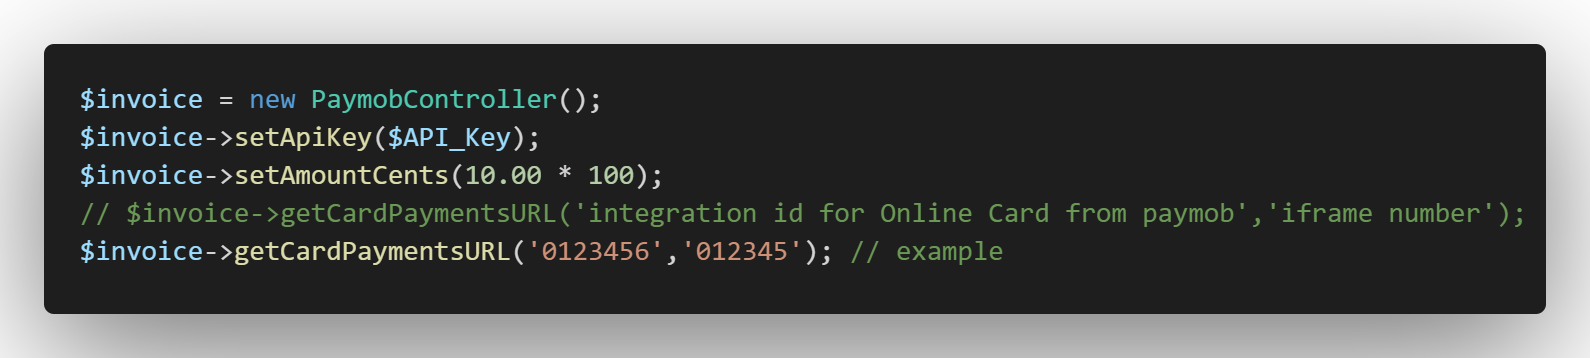
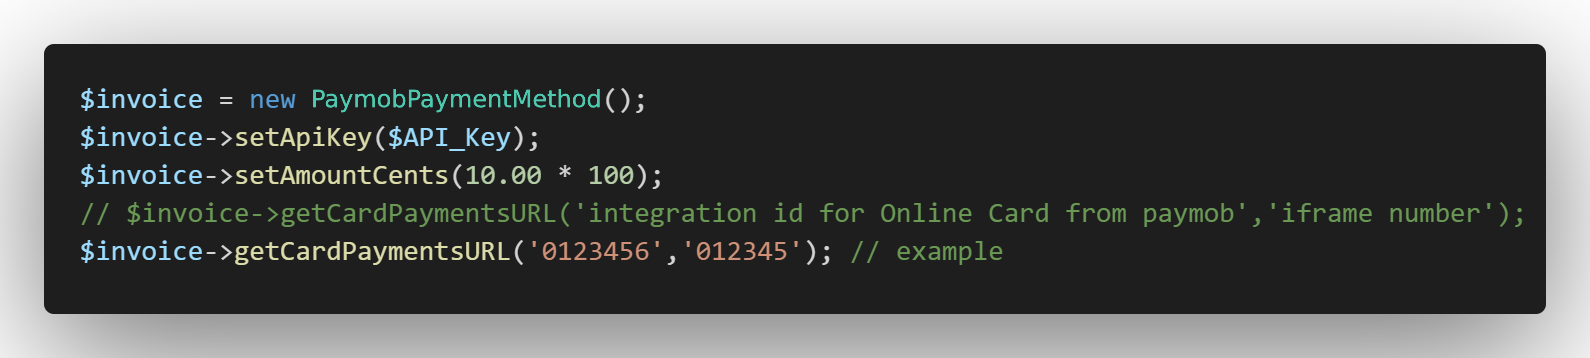
Updated
Change From PaymobController to PaymobPaymentMethod

Changed region(s): [[0.1849, 0.2458, 0.4006, 0.3073]]

diff --git a/src/PaymobPaymentMethod.php b/src/PaymobPaymentMethod.php
@@ -4,7 +4,7 @@ namespace Abdulbaset\PaymentGateways\Paymob;
 
 use GuzzleHttp\Client;
 
-class PaymobController
+class PaymobPaymentMethod
 {
 
     private $apiKey;

diff --git a/README.md b/README.md
@@ -23,13 +23,13 @@ composer require abdulbaset/paymob-payment-gateway
 after installing the package you should include the namespace, see the following code:
 
 ```bash
-use Abdulbaset\PaymentGateways\Paymob\PaymobController;
+use Abdulbaset\PaymentGateways\Paymob\PaymobPaymentMethod;
 ```
 
 if you want to get the card url for payment, see the following code:
 
 ```bash
-$invoice = new PaymobController();
+$invoice = new PaymobPaymentMethod();
 $invoice->setApiKey($API_Key);
 $invoice->setAmountCents(10.00 * 100);
 $invoice->getCardPaymentsURL('0123456', '123456');
@@ -41,7 +41,7 @@ $invoice->getCardPaymentsURL('0123456', '123456');
 if you want to get the mobile wallet url for payment, see the following code:
 
 ```bash
-$invoice = new PaymobController();
+$invoice = new PaymobPaymentMethod();
 $invoice->setApiKey($API_Key);
 $invoice->setAmountCents(10.00 * 100);
 $invoice->getMobileWalletsURL('0123456','01010101010');
